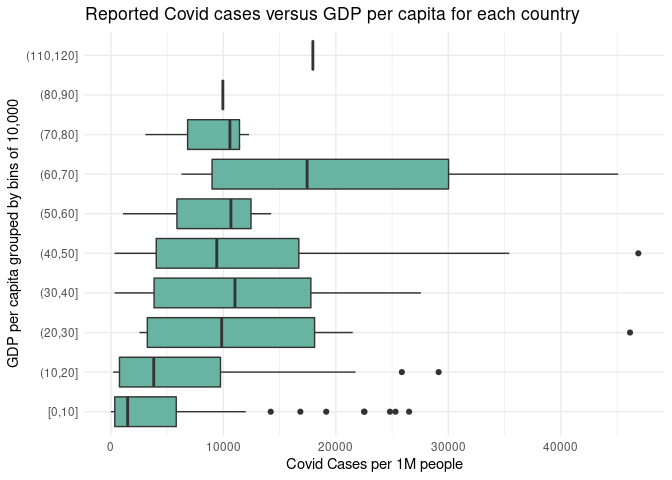
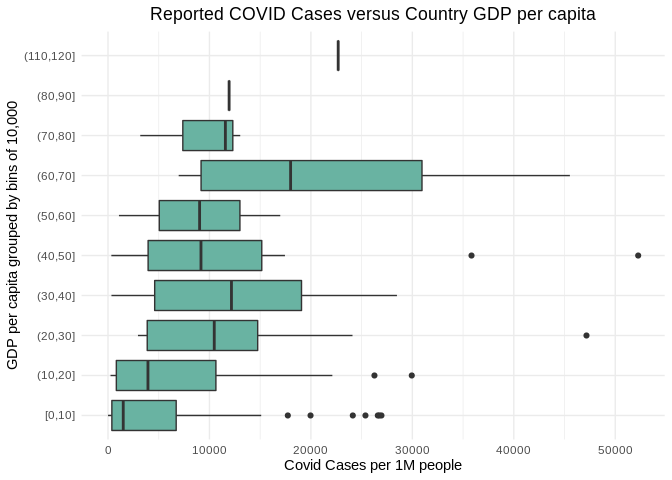
Report Revisions

diff --git a/Covid19_Report.md b/Covid19_Report.md
@@ -1,4 +1,4 @@
-COVID19\_Report
+COVID-19 Report
 ================
 Julian, Nabih, Nathan, and Yehya
 20-10-2020
@@ -53,10 +53,10 @@ pandemic and thus would have fewer cases.
 # *Data*
 
 For our project, we have two main sources of data: our COVID-19 dataset,
-and our GDP dataset. The COVID-19 dataset we got from [this GitHub
-repo](https://github.com/owid/covid-19-data/tree/master/public/data)
-create by [Our World in Data](https://ourworldindata.org/) a group of
-researcher who seek to research and develop data to make progress
+and our GDP dataset. The COVID-19 dataset is from [this GitHub
+repo](https://github.com/owid/covid-19-data/tree/master/public/data) and
+is created by [Our World in Data](https://ourworldindata.org/), a group
+of researchers who seek to research and develop data to make progress
 against the world’s largest problems. Data produced by this group has
 been used for teaching at top universities like Harvard and Oxford, and
 for research in over 500 different papers and articles, from sources
@@ -149,10 +149,17 @@ df_data_norm <- df_data_raw %>%
 
 # *Graphs and Observations*
 
+First we wanted to find a clean way of showing the data for all
+countries in one plot to observe if there were any obvious trends on
+first glance. Since the world has a large number of countries with a
+large range of per capita GDP’s, we decided it would be best to group
+them into bins with each bin representing $10,000 more GDP per capita.
+The result is plotted below.
+
 ``` r
 ## Plot with low gdp countries compared to high gdp
 df_data_norm %>% 
-  filter(date == "2020-10-21") %>% 
+  filter(date == max(date)) %>% 
   mutate(gdpPerCap = gdpPerCap/1000) %>% 
   arrange(gdpPerCap) %>% 
   mutate(country = fct_reorder(country, desc(gdpPerCap))) %>% 
@@ -160,29 +167,34 @@ df_data_norm %>%
   ggplot( aes(x=bin, y=cases_per1M, group=bin)) +
   geom_boxplot(fill="#69b3a2") +
   theme_minimal() +
+  theme(plot.title = element_text(hjust=.5)) + 
   coord_flip() +
   labs(
     x = "GDP per capita grouped by bins of 10,000",
     y = "Covid Cases per 1M people",
-    title = "Reported Covid cases versus GDP per capita for each country"
+    title = "Reported COVID Cases versus Country GDP per capita"
   )
 ```
 
 ![](Covid19_Report_files/figure-gfm/unnamed-chunk-1-1.png)<!-- -->
 
 The above figure shows the number of reported COVID cases versus the gdp
-per capita of the country.
-
-  - From this graph we notice several interesting things:
+per capita of the country. From this graph we notice several interesting
+things:
 
   - Case counts per 1m people appear to increase as GDP increases, this
     is contradictory to our hypothesis
 
   - Lowest GDP bracket countries have the lowest reported cases
 
-  - The 60-70,000 GDP bracket looks like an outlier
+  - The 60-70,000 GDP bracket looks like an outlier compared to other
+    bins
 
-<!-- end list -->
+From this plot alone, it is difficult to determine any noticeable trend,
+so we wanted to find a way to better split the data up. Since the spread
+of COVID is very much based on regions of the world, we believed that a
+natural division would be to split the data based on continent and
+analyze if there are similar trends between the regions of the world.
 
 ``` r
 df_data_norm %>%
@@ -195,9 +207,11 @@ df_data_norm %>%
                 formula=y ~ poly(x, 1, raw=TRUE),colour="red") +
   facet_wrap(~ continent) +
   theme_minimal() +
+  theme(plot.title = element_text(hjust=.5)) + 
   labs(
     x = "GDP Per Capita",
-    y = "Cases (per 1,000,000 persons)"
+    y = "Cases (per 1,000,000 persons)",
+    title = "Reported COVID Cases versus GDP per capita"
   )
 ```
 
@@ -225,11 +239,13 @@ df_data_norm %>%
   facet_wrap(~ continent, scale = "free") +
   theme_minimal() +
   theme(
-    axis.text.x = element_text(angle = 45)
+    axis.text.x = element_text(angle = 45),
+    plot.title = element_text(hjust=.5)
   ) +
   labs(
     x = "GDP Per Capita",
-    y = "Cases (per 1,000,000 persons)"
+    y = "Cases (per 1,000,000 persons)",
+    title = "Reported COVID Cases versus GDP per capita"
   )
 ```
 
@@ -307,5 +323,5 @@ that we are interested in include:
     reporting bias etc. Maybe looking at inflation or gold prices etc
     within a country could explain which countries were more stable.
 
-  - We were also interested in the death/case ratio (look at our source
-    if interested)
+  - We were also interested in the relationship between death/case ratio
+    and GDP per capita (look at our source if interested)
